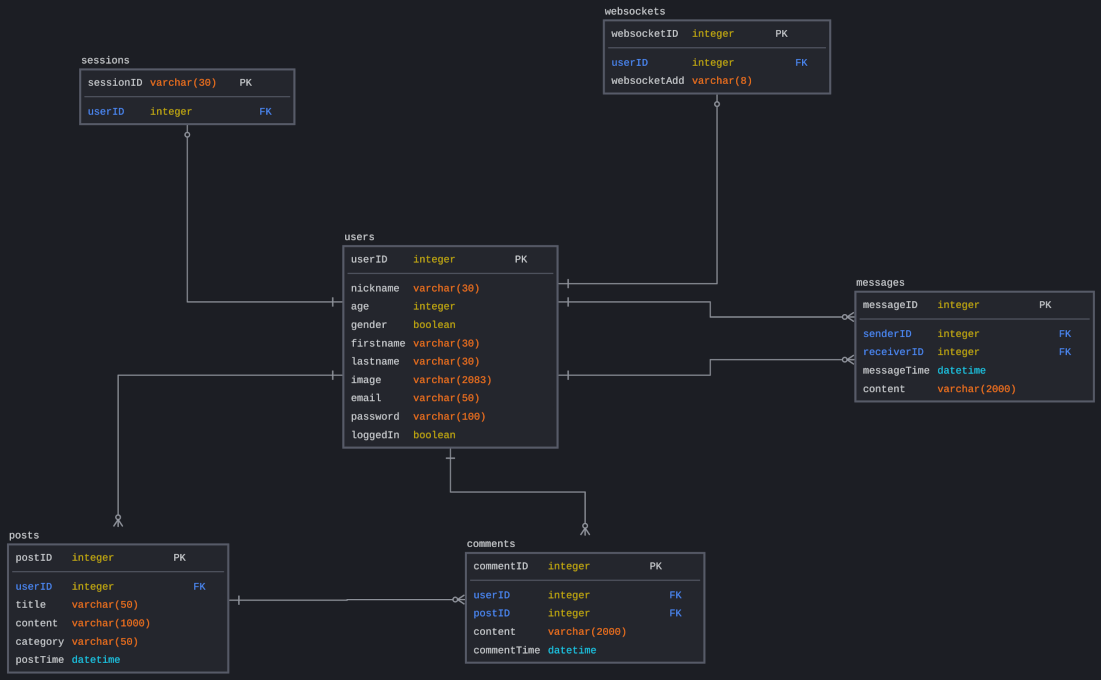
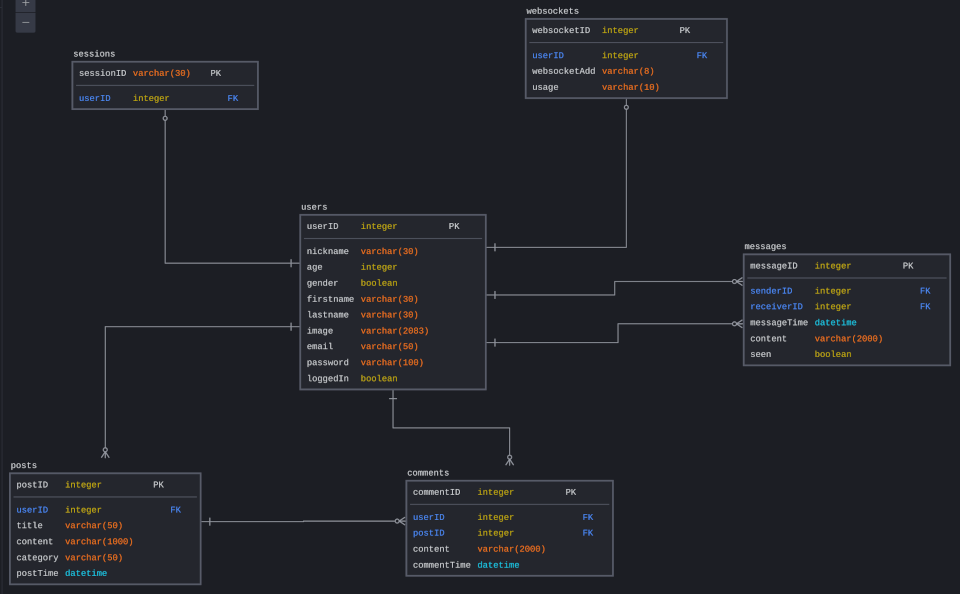
updated the design of db, login/reg trigger user list update wip

diff --git a/assets/login.js b/assets/login.js
@@ -1,6 +1,5 @@
-
 import userListSocket from "./userList.js";
-
+console.log(userListSocket);
 let loginSocket = null; 
 document.addEventListener("DOMContentLoaded", function() {
     loginSocket = new WebSocket("ws://localhost:8080/loginWs/");
@@ -30,7 +29,15 @@ const loginHandler = function(e) {
 
     let uListPayload = {};
     uListPayload["label"] = "update";
-    console.log("login: ", {uListPayload});
+    // still haven't got the cookie!!
+    // const sessionCookie = document.cookie.split(";").find(row => row.startsWith("session="));
+    // console.log({sessionCookie});
+    // if (sessionCookie) {
+    //     const cookieVal = sessionCookie.split("=")[1];
+    //     console.log({cookieVal});
+    //     uListPayload["cookie"] = cookieVal;
+    // }
+    console.log("login UL: ", {uListPayload});
     userListSocket.send(uListPayload);
 };
 

diff --git a/assets/reg.js b/assets/reg.js
@@ -1,5 +1,5 @@
 import userListSocket from "./userList.js";
-
+console.log(userListSocket);
 let regSocket = null; 
 const userList = document.querySelector(".user-list");
 
@@ -32,6 +32,11 @@ const regHandler = function(e) {
 
     let uListPayload = {};
     uListPayload["label"] = "update";
+    const sessionCookie = document.cookie.split(";").find(row => row.startsWith("session="));
+    if (sessionCookie) {
+        const cookieVal = sessionCookie.split("=")[1];
+        uListPayload["cookie"] = cookieVal;
+    }
     console.log("reg: ", {uListPayload});
     userListSocket.send(uListPayload);
 };

diff --git a/assets/userList.js b/assets/userList.js
@@ -1,7 +1,7 @@
-let userListSocket = null;
+const userListSocket = new WebSocket("ws://localhost:8080/userListWs/")
 
 document.addEventListener("DOMContentLoaded", function(e) {
-    userListSocket = new WebSocket("ws://localhost:8080/userListWs/")
+    // userListSocket = new WebSocket("ws://localhost:8080/userListWs/")
     console.log("JS attempt to connect to user list");
     userListSocket.onopen = () => console.log("user list connected");
     userListSocket.onclose = () => console.log("Bye user list");

diff --git a/forum/userList.go b/forum/userList.go
@@ -17,6 +17,7 @@ type WsUserListResponse struct {
 type WsUserListPayload struct {
 	Label   string         `json:"label"`
 	Content string         `json:"content"`
+	Cookie  string         `json:"cookie"`
 	Conn    websocket.Conn `json:"-"`
 }
 
@@ -34,7 +35,6 @@ func userListWsEndpoint(w http.ResponseWriter, r *http.Request) {
 		return
 	}
 	fmt.Println("UL Connected")
-	updateUList(conn)
 
 	readUserListPayloadFromWs(conn)
 }
@@ -49,14 +49,42 @@ func readUserListPayloadFromWs(conn *websocket.Conn) {
 		err := conn.ReadJSON(&userListPayload)
 		if err == nil {
 			fmt.Printf("Sending userListPayload thru chan: %v\n", userListPayload)
+			userListPayload.Conn = *conn
 			userListPayloadChan <- userListPayload
 		}
 	}
 }
 
 func ProcessAndReplyUserList() {
-	receivedPayload := <-userListPayloadChan
-	if receivedPayload.Label == "update" {
+	receivedUserListPayload := <-userListPayloadChan
+	if receivedUserListPayload.Label == "update" {
+		// can we get the cookie from backend directly?
+
+		// // find which userID
+		// c, err := r.Cookie("session")
+		// if err != nil {
+		// 	fmt.Println("User not logged in")
+		// 	return
+		// }
+		// var loggedInUid int
+		// rows, err := db.Query("SELECT userID FROM sessions WHERE sessionID = ?;", c.Value)
+		// if err != nil {
+		// 	log.Fatal(err)
+		// }
+		// defer rows.Close()
+		// for rows.Next() {
+		// 	rows.Scan(&loggedInUid)
+		// }
+		// fmt.Printf("loggedInUid UL %d \n", loggedInUid)
+		// // store conn in websockets table
+		// stmt, err := db.Prepare(`INSERT INTO websockets
+		// 					(userID, websocketAdd, usage)
+		// 					VALUES (?, ?, ?);`)
+		// if err != nil {
+		// 	log.Fatal(err)
+		// }
+		// defer stmt.Close()
+		// stmt.Exec(loggedInUid, receivedUserListPayload.Conn, "userlist")
 		updateUList()
 	}
 }

diff --git a/forum/login.go b/forum/login.go
@@ -72,7 +72,7 @@ func listenToLoginWs(conn *websocket.Conn) bool {
 		if err == nil {
 			// loginPayload.Conn = conn
 			fmt.Printf("payload received: %v\n", loginPayload)
-			testLogin() // just for testing, can be removed in production
+			// testLogin() // just for testing, can be removed in production
 			loginSuccess := ProcessAndReplyLogin(conn, loginPayload)
 			return loginSuccess
 		}
@@ -138,12 +138,12 @@ func ProcessAndReplyLogin(conn *websocket.Conn, loginPayload WsLoginPayload) boo
 	return true
 }
 
-func testLogin() {
-	stmt, err := db.Prepare("INSERT INTO users (userID, nickname, age, gender, firstname, lastname, email, password, loggedIn) VALUES (?,?,?,?,?,?,?,?,?);")
-	if err != nil {
-		log.Fatal(err)
-	}
-	testpw := "supersecret"
-	testpwHash, err := bcrypt.GenerateFromPassword([]byte(testpw), 10)
-	stmt.Exec(7, "doubleOh7", 42, 1, "James", "Bond", "secretagent@mi5.com", testpwHash, false)
-}
+// func testLogin() {
+// 	stmt, err := db.Prepare("INSERT INTO users (userID, nickname, age, gender, firstname, lastname, email, password, loggedIn) VALUES (?,?,?,?,?,?,?,?,?);")
+// 	if err != nil {
+// 		log.Fatal(err)
+// 	}
+// 	testpw := "supersecret"
+// 	testpwHash, err := bcrypt.GenerateFromPassword([]byte(testpw), 10)
+// 	stmt.Exec(7, "doubleOh7", 42, 1, "James", "Bond", "secretagent@mi5.com", testpwHash, false)
+// }

diff --git a/forum/register.go b/forum/register.go
@@ -85,12 +85,12 @@ func ProcessAndReplyReg(conn *websocket.Conn, regPayload WsRegisterPayload) bool
 			ageStr, regPayload.Email, cryptPw, regPayload.Gender)
 
 		fmt.Printf("%s creating user\n", regPayload.NickName)
-		rows, err := db.Prepare("INSERT INTO users(nickname,age,gender,firstname,lastname,email,password, loggedIn) VALUES(?,?,?,?,?,?,?,?);")
+		stmt, err := db.Prepare("INSERT INTO users(nickname,age,gender,firstname,lastname,email,password, loggedIn) VALUES(?,?,?,?,?,?,?,?);")
 		if err != nil {
 			log.Fatal(err)
 		}
-		defer rows.Close()
-		rows.Exec(regPayload.NickName, ageStr, regPayload.Gender, regPayload.FirstName, regPayload.LastName, regPayload.Email, cryptPw, true)
+		defer stmt.Close()
+		stmt.Exec(regPayload.NickName, ageStr, regPayload.Gender, regPayload.FirstName, regPayload.LastName, regPayload.Email, cryptPw, true)
 		if regPayload.NickName != "" && ageStr != "" && regPayload.Gender != "" && regPayload.FirstName != "" && regPayload.LastName != "" && regPayload.Email != "" && cryptPw != nil {
 
 			fmt.Println("Register successfully")

diff --git a/forum/setupDB.go b/forum/setupDB.go
@@ -14,7 +14,7 @@ func createUsersTable() {
 		userID INTEGER PRIMARY KEY AUTOINCREMENT,
 		nickname VARCHAR(30),
 		age INTEGER,
-		gender BOOLEAN,
+		gender VARCHAR(10),
 		firstname VARCHAR(30),
 		lastname VARCHAR(30),
 		email VARCHAR(50),
@@ -78,6 +78,7 @@ func createMessageTable() {
 		receiverID INTEGER,
 		messageTIme DATETIME,
 		content VARCHAR(2000),
+		seen BOOLEAN,
 		FOREIGN KEY(senderID) REFERENCES users(userID),
 		FOREIGN KEY(receiverID) REFERENCES users(userID));`)
 	if err != nil {
@@ -92,6 +93,7 @@ func createWebsocketsTable() {
 	(websocketID INTEGER PRIMARY KEY AUTOINCREMENT,
 		userID INTEGER,
 		websocketAdd VARCHAR(8),
+		usage VARCHAR(10),
 		FOREIGN KEY(userID) REFERENCES users(userID));`)
 	if err != nil {
 		log.Fatal(err)
